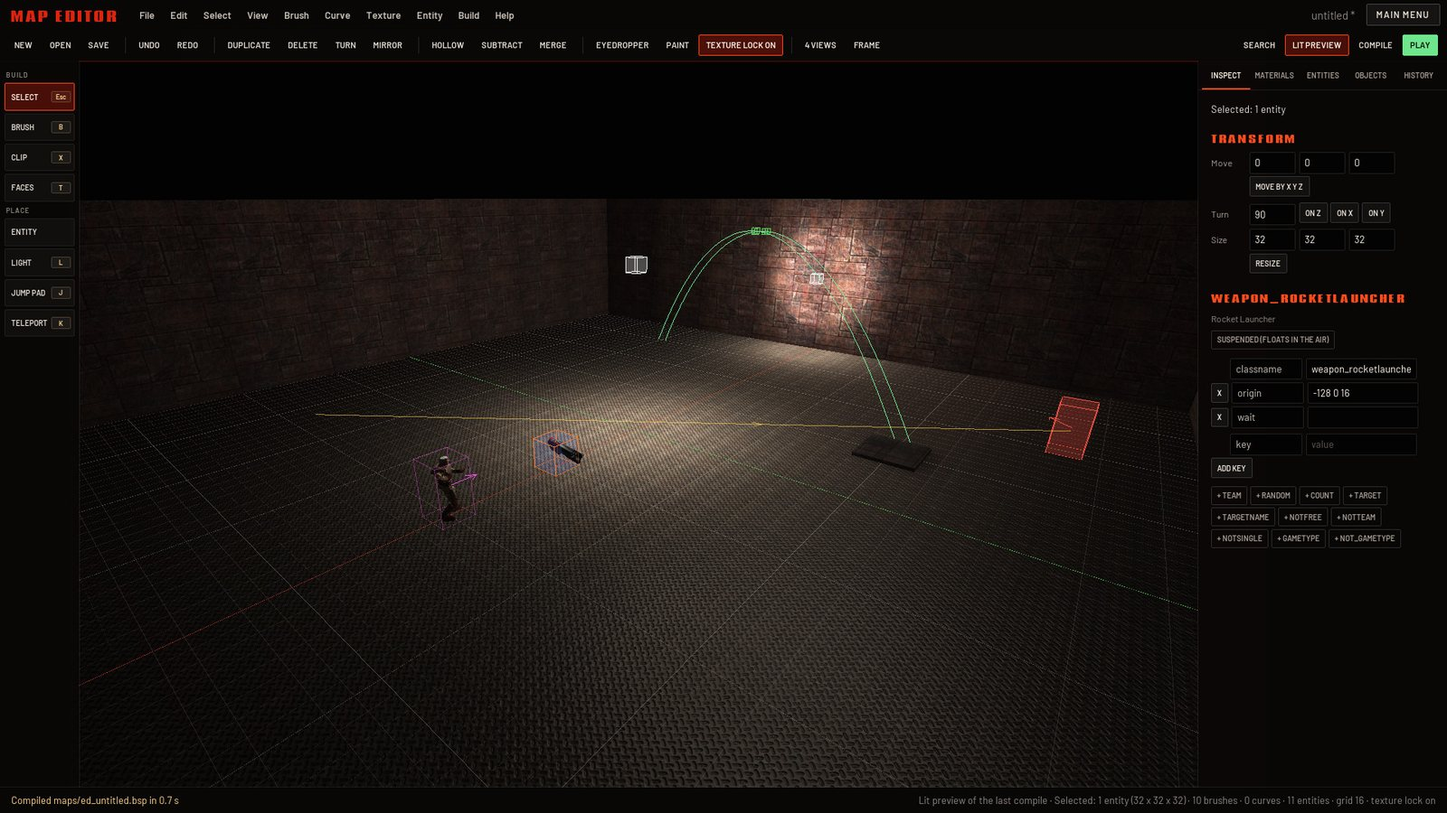
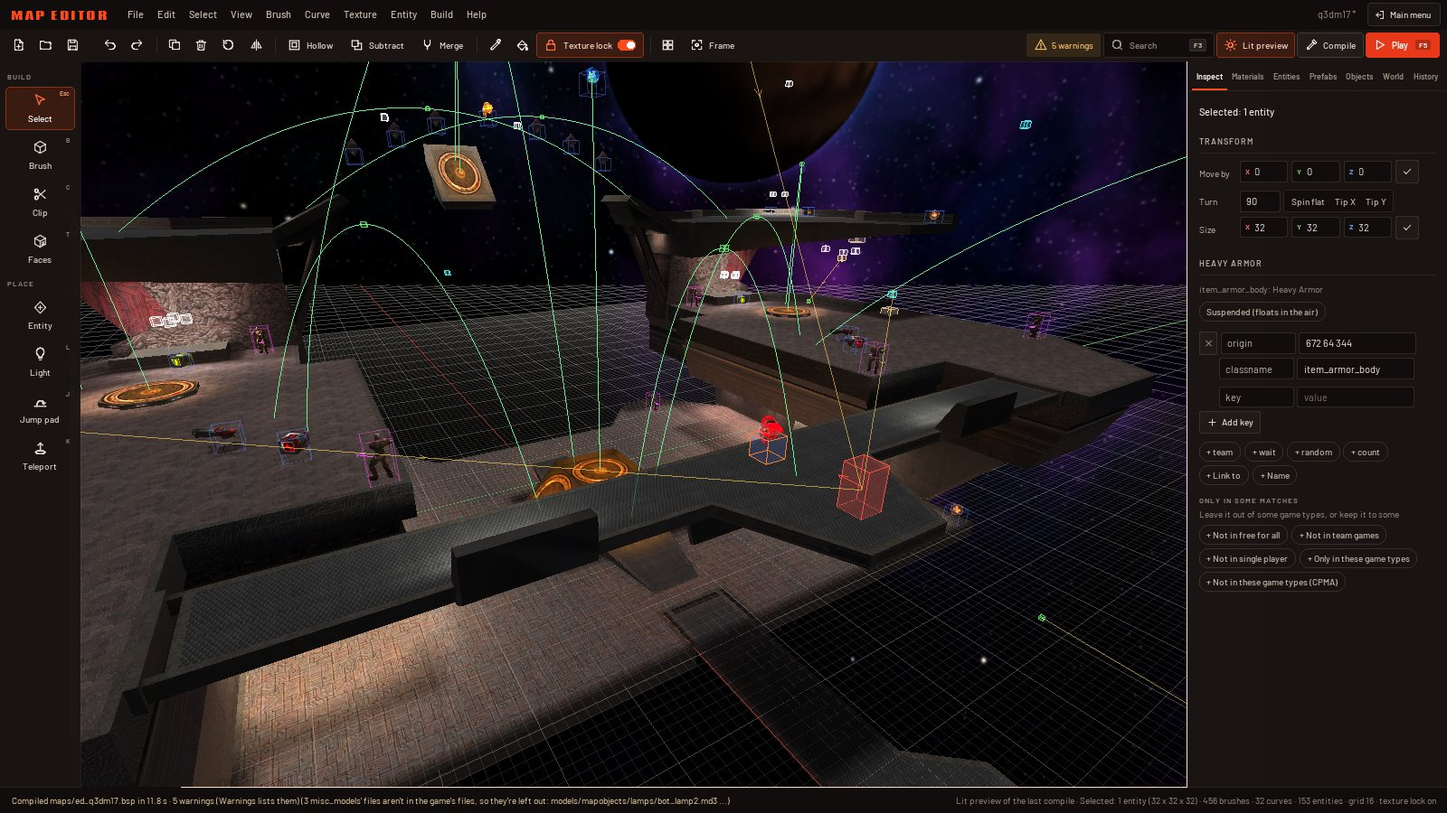
The map editor guide's screenshots in the editor's new look

diff --git a/map-editor.html b/map-editor.html
@@ -122,7 +122,12 @@
   <p class="kicker"><span class="rune">I</span> Open the editor</p>
   <h2 id="open-title">From the main menu, one click</h2>
   <p>Pick <b>Map Editor</b> in the main menu. The first time, it opens on a new map: a small lit room with a light and a spawn point, ready to play as it is. The editor draws with the Oz renderer, the one Oz picks by default; if you've switched to another one, the status line tells you to switch back under Settings, Video, Renderer.</p>
-  <p>A card comes up the first time too: <b>Getting started</b>, six steps to a map you can play (look around, build, shape, paint, fill it, play). <b>Got it</b> closes it, and <kbd>F1</kbd> or Help, Getting started brings it back whenever you want it.</p>
+  <p>A card comes up the first time too, with six steps to a map you can play (look around, build, shape, paint, fill it, play). <b>Got it</b> closes it, and <kbd>F1</kbd> or Help, Getting started brings it back whenever you want it.</p>
+
+  <figure class="shot framed">
+    <img src="img/editor_guide.jpg" alt="The map editor opening for the first time: a card with six numbered steps over a new room, the same steps listed again in the Inspect tab on the right" loading="lazy" width="1600" height="900">
+    <figcaption>The first time: the card over a new room. The same six steps stay in the Inspect tab while nothing is selected.</figcaption>
+  </figure>
 
   <figure class="diagram">
     <div class="plate">
@@ -138,41 +143,34 @@
           <text x="280" y="21">Brush</text><text x="318" y="21">Curve</text><text x="356" y="21">Texture</text><text x="404" y="21">Entity</text>
           <text x="446" y="21">Build</text><text x="482" y="21">Help</text>
         </g>
-        <text class="t-tiny t-faint" x="614" y="21">untitled *</text>
-        <rect class="ui-btn" x="668" y="7" width="84" height="20"/><text class="t-tiny t-ink mid" x="710" y="21">MAIN MENU</text>
-        <!-- action bar -->
+        <text class="t-tiny t-faint" x="618" y="21">untitled *</text>
+        <rect class="ui-btn" x="672" y="7" width="80" height="20" rx="3"/><path class="ui-ic" transform="translate(684 17)" d="M0-4H-4V4H0 M-1.5 0H4.5 M2.5-2L4.5 0L2.5 2"/><text class="t-tiny t-ink" x="694" y="21">Main menu</text>
+        <!-- action bar: icons for the commands used most, an icon and a word for the rest -->
         <rect class="ui-bar2" x="30" y="34" width="730" height="28"/>
-        <g class="t-tiny t-ink">
-          <text x="40" y="52">NEW</text><text x="62" y="52">OPEN</text><text x="89" y="52">SAVE</text>
-          <text x="123" y="52">UNDO</text><text x="150" y="52">REDO</text>
-          <text x="184" y="52">DUPLICATE</text><text x="235" y="52">DELETE</text><text x="271" y="52">TURN</text><text x="298" y="52">MIRROR</text>
-          <text x="341" y="52">HOLLOW</text><text x="377" y="52">SUBTRACT</text><text x="423" y="52">MERGE</text>
-          <text x="462" y="52">PAINT</text>
-          <text x="574" y="52">SEARCH</text><text x="610" y="52">LIT PREVIEW</text><text x="671" y="52">COMPILE</text>
-        </g>
-        <path class="ui-sep" d="M116 41V55M177 41V55M334 41V55M455 41V55"/>
-        <rect class="ui-btn on" x="494" y="40" width="66" height="16"/><text class="t-tiny t-ink mid" x="527" y="52">TEXTURE LOCK</text>
-        <rect class="ui-play" x="714" y="40" width="38" height="16"/><text class="t-tiny mid t-dark" x="733" y="52">PLAY</text>
-        <!-- tool strip -->
+        <path class="ui-ic" transform="translate(45 48)" d="M-3-4.5H1.5L3.5-2.5V4.5H-3Z"/><path class="ui-ic" transform="translate(63 48)" d="M-4.5-3.5H-1L0-2.5H4.5V3.5H-4.5Z"/><path class="ui-ic" transform="translate(81 48)" d="M-4-4H2.5L4-2.5V4H-4Z M-2-4V-1.5H2V-4"/><path class="ui-ic" transform="translate(107 48)" d="M3.5 3.5A4 4 0 0 0 -2.5 -2 M-4.5-4V-1H-1.5"/><path class="ui-ic" transform="translate(125 48)" d="M-3.5 3.5A4 4 0 0 1 2.5 -2 M4.5-4V-1H1.5"/><path class="ui-ic" transform="translate(151 48)" d="M-4.5-1.5H1.5V4.5H-4.5Z M-1.5-1.5V-4.5H4.5V1.5H1.5"/><path class="ui-ic" transform="translate(169 48)" d="M-3-2.5H3L2.4 4.5H-2.4Z M-4.5-2.5H4.5 M-1.2-4.5H1.2"/><path class="ui-ic" transform="translate(187 48)" d="M4 0A4 4 0 1 1 1.5 -3.7 M0.5-5.5L1.8-3.6L-0.2-2.4"/><path class="ui-ic" transform="translate(205 48)" d="M0-5V5 M-1.8-3.5L-4.5 3.5H-1.8Z M1.8-3.5L4.5 3.5H1.8Z"/>
+        <path class="ui-sep" d="M95 41V55M139 41V55M219 41V55M361 41V55M487 41V55"/>
+        <rect class="ui-btn" x="225" y="40" width="40" height="16" rx="3"/><path class="ui-ic" transform="translate(233 48)" d="M-4-4H4V4H-4Z M-1.8-1.8H1.8V1.8H-1.8Z"/><text class="t-tiny t-ink" x="240" y="51">Hollow</text>
+        <rect class="ui-btn" x="268" y="40" width="48" height="16" rx="3"/><path class="ui-ic" transform="translate(276 48)" d="M-4.5-4.5H1.5V1.5H-4.5Z M-1.5 1.5V4.5H4.5V-1.5H1.5"/><text class="t-tiny t-ink" x="283" y="51">Subtract</text>
+        <rect class="ui-btn" x="319" y="40" width="38" height="16" rx="3"/><path class="ui-ic" transform="translate(327 48)" d="M-3.5-4.5L0 0L3.5-4.5 M0 0V4.5"/><text class="t-tiny t-ink" x="334" y="51">Merge</text>
+        <path class="ui-ic" transform="translate(373 48)" d="M-4 4L1-1 M-0.5-2.5L2.5 0.5 M1-4L4-1"/><path class="ui-ic" transform="translate(391 48)" d="M-3.5-0.5L0-4L4 0L0.5 3.5Z M4 2V4"/>
+        <rect class="ui-btn on" x="403" y="40" width="80" height="16" rx="3"/><path class="ui-ic on" transform="translate(411 48)" d="M-3-0.5H3V4.5H-3Z M-2-0.5V-2.5A2 2 0 0 1 2 -2.5V-0.5"/><text class="t-tiny t-ink" x="418" y="51">Texture lock</text><rect class="ui-switch" x="465" y="44" width="13" height="8" rx="4"/><circle class="ui-knob" cx="474" cy="48" r="2.6"/>
+        <path class="ui-ic" transform="translate(499 48)" d="M-4.5-4.5H-0.8V-0.8H-4.5Z M0.8-4.5H4.5V-0.8H0.8Z M-4.5 0.8H-0.8V4.5H-4.5Z M0.8 0.8H4.5V4.5H0.8Z"/>
+        <rect class="ui-btn" x="511" y="40" width="39" height="16" rx="3"/><path class="ui-ic" transform="translate(519 48)" d="M-4.5-1.5V-4.5H-1.5 M1.5-4.5H4.5V-1.5 M4.5 1.5V4.5H1.5 M-1.5 4.5H-4.5V1.5"/><text class="t-tiny t-ink" x="526" y="51">Frame</text>
+        <rect class="ui-search" x="555" y="40" width="48" height="16" rx="3"/><path class="ui-ic" transform="translate(563 48)" d="M1.6-1A2.6 2.6 0 1 1 -3.6 -1A2.6 2.6 0 1 1 1.6 -1Z M0.8 1L4 4.2"/><text class="t-tiny t-faint" x="570" y="51">Search</text>
+        <rect class="ui-btn" x="607" y="40" width="58" height="16" rx="3"/><path class="ui-ic" transform="translate(615 48)" d="M2 0A2 2 0 1 1 -2 0A2 2 0 1 1 2 0Z M0-5V-3.6 M0 3.6V5 M-5 0H-3.6 M3.6 0H5 M-3.5-3.5L-2.5-2.5 M2.5 2.5L3.5 3.5 M-3.5 3.5L-2.5 2.5 M2.5-2.5L3.5-3.5"/><text class="t-tiny t-ink" x="622" y="51">Lit preview</text>
+        <rect class="ui-btn" x="669" y="40" width="45" height="16" rx="3"/><path class="ui-ic" transform="translate(677 48)" d="M-4 4.5L0.5 0 M-1.5-2L1.5-5L4.5-2L1.5 1Z"/><text class="t-tiny t-ink" x="684" y="51">Compile</text>
+        <rect class="ui-play" x="717" y="40" width="37" height="16" rx="3"/><path class="ui-ic light" transform="translate(724 48)" d="M-2.5-3.5L3.5 0L-2.5 3.5Z"/><text class="t-tiny t-onred" x="731" y="51">Play</text>
+        <!-- tool strip: a card for each tool, its icon, name and key -->
         <rect class="ui-strip" x="30" y="62" width="82" height="350"/>
-        <text class="t-tiny t-faint" x="38" y="78">BUILD</text>
-        <rect class="ui-tool on" x="36" y="84" width="70" height="22"/>
-        <rect class="ui-tool" x="36" y="111" width="70" height="22"/>
-        <rect class="ui-tool" x="36" y="138" width="70" height="22"/>
-        <rect class="ui-tool" x="36" y="165" width="70" height="22"/>
-        <text class="t-tiny t-faint" x="38" y="206">PLACE</text>
-        <rect class="ui-tool" x="36" y="212" width="70" height="22"/>
-        <rect class="ui-tool" x="36" y="239" width="70" height="22"/>
-        <rect class="ui-tool" x="36" y="266" width="70" height="22"/>
-        <rect class="ui-tool" x="36" y="293" width="70" height="22"/>
-        <g class="t-tiny t-ink">
-          <text x="42" y="99">SELECT</text><text x="42" y="126">BRUSH</text><text x="42" y="153">CLIP</text><text x="42" y="180">FACES</text>
-          <text x="42" y="227">ENTITY</text><text x="42" y="254">LIGHT</text><text x="42" y="281">JUMP PAD</text><text x="42" y="308">TELEPORT</text>
-        </g>
-        <g class="t-tiny t-amber end">
-          <text x="101" y="99">Esc</text><text x="101" y="126">B</text><text x="101" y="153">C</text><text x="101" y="180">T</text>
-          <text x="101" y="254">L</text><text x="101" y="281">J</text><text x="101" y="308">K</text>
-        </g>
+        <text class="t-micro t-quiet" x="38" y="76">BUILD</text><text class="t-micro t-quiet" x="38" y="231">PLACE</text>
+        <rect class="ui-tool on" x="36" y="81" width="70" height="31" rx="4"/><path class="ui-ic on" transform="translate(71 92)" d="M-3.5-5L3.5 1H-0.2L1.8 5 M-3.5-5V3L-0.6 0.6"/><text class="t-tiny t-hot mid" x="71" y="107">Select</text><text class="t-micro t-faint end" x="102" y="90">Esc</text>
+        <rect class="ui-tool" x="36" y="116" width="70" height="31" rx="4"/><path class="ui-ic" transform="translate(71 127)" d="M0-5L4.5-2.5V2.5L0 5L-4.5 2.5V-2.5Z M-4.5-2.5L0 0L4.5-2.5 M0 0V5"/><text class="t-tiny t-ink mid" x="71" y="142">Brush</text><text class="t-micro t-faint end" x="102" y="125">B</text>
+        <rect class="ui-tool" x="36" y="151" width="70" height="31" rx="4"/><path class="ui-ic" transform="translate(71 162)" d="M-4-5L2.5 2 M4-5L-2.5 2 M-1 3.6A1.4 1.4 0 1 1 -3.8 3.6A1.4 1.4 0 1 1 -1 3.6Z M5.2 3.6A1.4 1.4 0 1 1 2.4 3.6A1.4 1.4 0 1 1 5.2 3.6Z"/><text class="t-tiny t-ink mid" x="71" y="177">Clip</text><text class="t-micro t-faint end" x="102" y="160">C</text>
+        <rect class="ui-tool" x="36" y="186" width="70" height="31" rx="4"/><path class="ui-ic" transform="translate(71 197)" d="M0-5L4.5-2.5V2.5L0 5L-4.5 2.5V-2.5Z M-4.5-2.5L0 0L4.5-2.5 M0 0V5 M1.5 0.8L3.3-0.2V1.8L1.5 2.8Z"/><text class="t-tiny t-ink mid" x="71" y="212">Faces</text><text class="t-micro t-faint end" x="102" y="195">T</text>
+        <rect class="ui-tool" x="36" y="237" width="70" height="31" rx="4"/><path class="ui-ic" transform="translate(71 248)" d="M0-4.5L4.5 0L0 4.5L-4.5 0Z M1.3 0A1.3 1.3 0 1 1 -1.3 0A1.3 1.3 0 1 1 1.3 0Z"/><text class="t-tiny t-ink mid" x="71" y="263">Entity</text>
+        <rect class="ui-tool" x="36" y="272" width="70" height="31" rx="4"/><path class="ui-ic" transform="translate(71 283)" d="M0-5A3.2 3.2 0 0 1 3.2 -1.8C3.2 0 1.6 0.8 1.6 2.2H-1.6C-1.6 0.8 -3.2 0 -3.2 -1.8A3.2 3.2 0 0 1 0 -5Z M-1.4 4H1.4"/><text class="t-tiny t-ink mid" x="71" y="298">Light</text><text class="t-micro t-faint end" x="102" y="281">L</text>
+        <rect class="ui-tool" x="36" y="307" width="70" height="31" rx="4"/><path class="ui-ic" transform="translate(71 318)" d="M-5 3.5H5 M-3.5 3.5Q0-6 3.5 3.5"/><text class="t-tiny t-ink mid" x="71" y="333">Jump pad</text><text class="t-micro t-faint end" x="102" y="316">J</text>
+        <rect class="ui-tool" x="36" y="342" width="70" height="31" rx="4"/><path class="ui-ic" transform="translate(71 353)" d="M0-5V0.5 M-2.2-2.8L0-5L2.2-2.8 M-4.5 4H4.5 M-3 2H3"/><text class="t-tiny t-ink mid" x="71" y="368">Teleport</text><text class="t-micro t-faint end" x="102" y="351">K</text>
         <!-- the view -->
         <rect class="ui-view" x="112" y="62" width="388" height="350"/>
         <g clip-path="url(#clip-view)">
@@ -188,29 +186,27 @@
         <g class="spawn-glyph" transform="translate(178 300)"><circle cx="0" cy="-30" r="6"/><path d="M0-24V2M0 2L-8 22M0 2L8 22M-11-14H11"/></g>
         <g transform="translate(432 168)"><circle class="lamp-glow" r="22"/><rect class="lamp" x="-6" y="-6" width="12" height="12"/></g>
         <text class="t-tiny t-faint" x="122" y="80">3D VIEW</text>
-        <!-- the panel -->
+        <!-- the panel: seven tabs in a row -->
         <rect class="ui-panel" x="500" y="62" width="260" height="350"/>
+        <g class="t-micro"><text class="t-hot" x="508" y="82">Inspect</text><text x="541" y="82">Materials</text><text x="581" y="82">Entities</text><text x="616" y="82">Prefabs</text><text x="649" y="82">Objects</text><text x="683" y="82">World</text><text x="709" y="82">History</text></g>
+        <path class="ui-tab-on" d="M508 88H534"/>
+        <path class="ui-sep" d="M506 94H754"/>
+        <text class="t-small t-ink" x="512" y="114">Nothing is selected</text>
+        <text class="t-micro t-quiet" x="512" y="136">GETTING STARTED</text><path class="ui-sep" d="M512 141H750"/>
         <g class="t-tiny">
-          <text class="t-hot" x="510" y="84">INSPECT</text><text x="560" y="84">MATERIALS</text><text x="620" y="84">ENTITIES</text><text x="674" y="84">PREFABS</text>
-          <text x="510" y="106">OBJECTS</text><text x="558" y="106">WORLD</text><text x="598" y="106">HISTORY</text>
+          <text x="512" y="157"><tspan class="t-glow">1</tspan>  Hold the right button to look</text>
+          <text x="512" y="173"><tspan class="t-glow">2</tspan>  Brush: drag a footprint, then up</text>
+          <text x="512" y="189"><tspan class="t-glow">3</tspan>  Click to select, drag to move</text>
+          <text x="512" y="205"><tspan class="t-glow">4</tspan>  Materials tab: click to paint</text>
+          <text x="512" y="221"><tspan class="t-glow">5</tspan>  Entities tab: pick, then click</text>
+          <text x="512" y="237"><tspan class="t-glow">6</tspan>  Play F5 runs around in it</text>
         </g>
-        <path class="ui-tab-on" d="M510 89H550"/>
-        <path class="ui-sep" d="M506 114H754"/>
-        <text class="t-small t-ink" x="512" y="134">Nothing is selected</text>
-        <text class="t-tiny t-red" x="512" y="158">GETTING STARTED</text>
-        <g class="t-tiny">
-          <text x="512" y="178"><tspan class="t-glow">1</tspan>  Hold the right button to look</text>
-          <text x="512" y="194"><tspan class="t-glow">2</tspan>  Brush: drag a footprint, then up</text>
-          <text x="512" y="210"><tspan class="t-glow">3</tspan>  Click to select, drag to move</text>
-          <text x="512" y="226"><tspan class="t-glow">4</tspan>  Materials tab: click to paint</text>
-          <text x="512" y="242"><tspan class="t-glow">5</tspan>  Entities tab: pick, then click</text>
-          <text x="512" y="258"><tspan class="t-glow">6</tspan>  Play F5 runs around in it</text>
-        </g>
-        <text class="t-tiny t-red" x="512" y="288">MAP KEYS</text>
-        <rect class="ui-field" x="512" y="298" width="96" height="18"/><rect class="ui-field" x="614" y="298" width="136" height="18"/>
-        <rect class="ui-field" x="512" y="322" width="96" height="18"/><rect class="ui-field" x="614" y="322" width="136" height="18"/>
-        <rect class="ui-field" x="512" y="346" width="96" height="18"/><rect class="ui-field" x="614" y="346" width="136" height="18"/>
-        <g class="t-tiny"><text x="518" y="311">message</text><text x="518" y="335">music</text><text x="518" y="359">gravity</text></g>
+        <text class="t-micro t-quiet" x="512" y="266">MAP KEYS</text><path class="ui-sep" d="M512 271H750"/>
+        <rect class="ui-field" x="512" y="280" width="96" height="18" rx="2"/><rect class="ui-field" x="614" y="280" width="136" height="18" rx="2"/>
+        <rect class="ui-field" x="512" y="304" width="96" height="18" rx="2"/><rect class="ui-field" x="614" y="304" width="136" height="18" rx="2"/>
+        <rect class="ui-field" x="512" y="328" width="96" height="18" rx="2"/><rect class="ui-field" x="614" y="328" width="136" height="18" rx="2"/>
+        <g class="t-tiny"><text x="518" y="293">message</text><text x="518" y="317">music</text><text x="518" y="341">gravity</text></g>
+        <rect class="ui-chip on" x="512" y="352" width="56" height="16" rx="8"/><text class="t-tiny t-ink mid" x="540" y="363">Sky and sun</text>
         <!-- status line -->
         <rect class="ui-bar" x="30" y="412" width="730" height="28"/>
         <text class="t-tiny t-amber" x="40" y="430">Click to select, drag to move · Shift+drag a face pushes it</text>
@@ -219,9 +215,9 @@
         <g class="callout">
           <g transform="translate(15 17)"><circle r="10"/><text class="mid" y="4">1</text></g>
           <g transform="translate(15 48)"><circle r="10"/><text class="mid" y="4">2</text></g>
-          <g transform="translate(71 390)"><circle r="10"/><text class="mid" y="4">3</text></g>
-          <g transform="translate(140 390)"><circle r="10"/><text class="mid" y="4">4</text></g>
-          <g transform="translate(528 390)"><circle r="10"/><text class="mid" y="4">5</text></g>
+          <g transform="translate(71 394)"><circle r="10"/><text class="mid" y="4">3</text></g>
+          <g transform="translate(140 394)"><circle r="10"/><text class="mid" y="4">4</text></g>
+          <g transform="translate(528 394)"><circle r="10"/><text class="mid" y="4">5</text></g>
           <g transform="translate(15 426)"><circle r="10"/><text class="mid" y="4">6</text></g>
         </g>
       </svg>
@@ -229,9 +225,9 @@
     <figcaption>
       <b>The screen</b>
       <ol class="me-legend">
-        <li><b>The menu bar.</b> File, Edit, Select, View, Brush, Curve, Texture, Entity, Build and Help hold every action, each row with its keys. A mark shows what's on; a row is grayed out when there's nothing for it to work on. Main Menu is at the right end.</li>
-        <li><b>The action bar.</b> The actions you reach for most, with Play in green at the right. In a narrow window, New, Open, 4 Views, Frame and Search give up their place (they're still in the menus).</li>
-        <li><b>The tool strip.</b> Eight tools, each with its key, the one in use lit.</li>
+        <li><b>The menu bar.</b> File, Edit, Select, View, Brush, Curve, Texture, Entity, Build and Help hold every action, each row with its keys. A mark shows what's on; a row is grayed out when there's nothing for it to work on. Main menu is at the right end.</li>
+        <li><b>The action bar.</b> The actions you reach for most. The commonest are icons (point at one for its name and key), the rest an icon and a word; Play is the red button at the right. In a narrow window, New, Open, Four views, Frame and Search give up their place (they're still in the menus).</li>
+        <li><b>The tool strip.</b> Eight tools, each a card with its icon, name and key, the one in use outlined in red.</li>
         <li><b>The view.</b> One 3D view, or four views with <kbd>V</kbd>.</li>
         <li><b>The panel.</b> Seven tabs: Inspect, Materials, Entities, Prefabs, Objects, World and History.</li>
         <li><b>The status line.</b> What the pointer is over and what a tool wants next on the left; the map's counts, the grid and the texture lock on the right. Notes like "Undo Jump higher" show here for a while too.</li>
@@ -244,7 +240,7 @@
   <p>With nothing selected, the Inspect tab shows the getting started steps, the map's own settings and a short list of keys, so the panel is never empty.</p>
 
   <h3>Leaving and coming back</h3>
-  <p><b>Main Menu</b> at the right of the menu bar (or File, Exit to main menu) takes you back to the main menu. Nothing is lost: the map stays in the editor exactly as it was until you open it again, saved or not.</p>
+  <p><b>Main menu</b> at the right of the menu bar (or File, Exit to main menu) takes you back to the main menu. Nothing is lost: the map stays in the editor exactly as it was until you open it again, saved or not.</p>
   <p><kbd>Esc</kbd> never leaves the editor. It cancels whatever a tool is in the middle of, and then clears the selection. To work the menus from the keyboard, press <kbd>F10</kbd>: the arrows move through them and Enter picks a row.</p>
   <div class="know">
     <p>The editor also opens from the console: type <code>editor</code>.</p>
@@ -281,11 +277,11 @@
 <section id="views" aria-labelledby="views-title">
   <p class="kicker"><span class="rune">III</span> Views and the grid</p>
   <h2 id="views-title">One view or four, and everything on the grid</h2>
-  <p>Press <kbd>V</kbd> (or 4 Views in the action bar) to split the view into four panes, as classic map editors do: the 3D view, <b>top</b> (X across, Y up), <b>front</b> (X across, Z up) and <b>side</b> (Y across, Z up). Press <kbd>V</kbd> again and the pane under the pointer fills the view alone. <kbd>Ctrl+Tab</kbd> steps that single view through 3D, top, front and side.</p>
+  <p>Press <kbd>V</kbd> (or the four-squares icon in the action bar) to split the view into four panes, as classic map editors do: the 3D view, <b>top</b> (X across, Y up), <b>front</b> (X across, Z up) and <b>side</b> (Y across, Z up). Press <kbd>V</kbd> again and the pane under the pointer fills the view alone. <kbd>Ctrl+Tab</kbd> steps that single view through 3D, top, front and side.</p>
 
   <figure class="shot framed">
     <img src="img/editor_views.jpg" alt="The editor in four views on The Longest Yard: the 3D view at top left, the top, front and side views as line drawings, and the Inspect tab showing the map's own keys" loading="lazy" width="1600" height="900">
-    <figcaption>Four views on a stock arena opened in the editor. With nothing selected, Inspect shows the getting started steps and the map's keys. (Screenshots on this page are from an earlier build: the panel has since gained the Prefabs and World tabs.)</figcaption>
+    <figcaption>Four views on a stock arena opened in the editor. With nothing selected, Inspect shows the getting started steps and the map's own keys.</figcaption>
   </figure>
 
   <p>The 2D views are flat line drawings: brushes of the world in gray, brushes of an entity (a door, a trigger) in blue, the selection in orange, with entities, links and handles drawn as in 3D. Each one keeps its own place and zoom; Frame (<kbd>F</kbd>) and Frame the map (<kbd>Home</kbd>) set all four at once. In a 2D view, drag with the right or middle button to slide it, and turn the wheel to zoom toward the pointer.</p>
@@ -352,7 +348,7 @@
     <li><kbd>Ctrl</kbd>+drag the selection to drag off a copy and leave the original in place.</li>
     <li>The <b>arrow keys</b> nudge the selection a grid step as the camera sees it: <kbd>Up</kbd> moves it away from you, <kbd>Down</kbd> toward you. <kbd>PgUp</kbd> and <kbd>PgDn</kbd> move it up and down.</li>
     <li><b>Duplicate</b> (<kbd>Ctrl+D</kbd> or <kbd>Space</kbd>) puts a copy beside the selection, to its right as the camera sees it. <b>Copy</b>, <b>Cut</b> and <b>Paste</b> are <kbd>Ctrl+C</kbd>, <kbd>Ctrl+X</kbd> and <kbd>Ctrl+V</kbd>; Paste puts it where the pointer is, on the grid. <kbd>Del</kbd> or <kbd>Backspace</kbd> deletes.</li>
-    <li><b>By numbers:</b> the Transform rows of the Inspect tab move the selection by X, Y and Z, turn it by any number of degrees (Spin flat turns it on the floor, Tip X and Tip Y tip it over the red and green grid lines), and resize it to a width, depth and height, standing on its floor.</li>
+    <li><b>By numbers:</b> the Transform rows of the Inspect tab move the selection by X, Y and Z (the fields lettered in the grid's colors; press <kbd>Enter</kbd> or the check beside them), turn it by any number of degrees (Spin flat turns it on the floor, Tip X and Tip Y tip it over the red and green grid lines), and resize it to a width, depth and height, standing on its floor.</li>
   </ul>
 
   <h3>The handles</h3>
@@ -495,6 +491,11 @@
   </ul>
   <p>The search box narrows any of them as you type ("concrete", "gothic", "sky"). Tool materials, like the invisible clip and trigger ones, show in their own colors in the view, as other editors draw them.</p>
 
+  <figure class="shot framed">
+    <img src="img/editor_materials.jpg" alt="A room blocked out in plain colored grid textures, a selected block painted teal, and the Materials tab showing the current material and the twelve dev textures" loading="lazy" width="1600" height="900">
+    <figcaption>A blockout in the dev textures. The selected block is teal, which is now the current material at the top of the tab.</figcaption>
+  </figure>
+
   <h3>Eyedropper and Paint</h3>
   <ul>
     <li><b>Eyedropper</b> (<kbd>I</kbd>): the material of the face under the pointer becomes the current one.</li>
@@ -511,14 +512,19 @@
   </ul>
 
   <h3>Texture rows in the Inspect tab</h3>
-  <p>For the picked faces (or the selected brushes), Inspect shows the material, a <b>Color</b> row that tints the texture (in the view and in the game), and the <b>Texture</b> numbers: shift, scale and turn, typed in directly, blank where the faces differ. Under them:</p>
+  <p>For the picked faces (or the selected brushes), Inspect shows the material with <b>Paint selection</b> and <b>Browse</b>, a <b>Color</b> row that tints the texture in the view and in the game (one row of strong colors; <b>More</b> adds paler ones and grays), and the <b>Texture</b> numbers: shift, scale and turn, typed in directly (U across, V down), "mixed" where the faces differ. Beside and under them:</p>
   <ul>
-    <li><b>Left 15</b>, <b>Right 15</b>, <b>×2</b> and <b>/2</b>.</li>
+    <li><b>×2</b> and <b>÷2</b> for the scale, <b>Left 15°</b> and <b>Right 15°</b> for the turn.</li>
     <li><b>Fit</b>: the texture so many times across and down each face.</li>
-    <li><b>Left</b>, <b>Right</b>, <b>Top</b>, <b>Bottom</b>, <b>Center</b>: line an edge (or the middle) of each face up with the texture.</li>
-    <li><b>Flip across</b>, <b>Flip down</b> and <b>Reset</b> (the default mapping at half scale).</li>
+    <li><b>Align</b>: five icons that line an edge of each face (left, right, top, bottom) or its middle up with the texture, then two that flip it across and down. Point at one for its name.</li>
+    <li><b>Reset</b>: the default mapping at half scale.</li>
     <li><b>UV editor</b> (<kbd>U</kbd>): the face's outline over its texture's tiles. Drag the texture to slide it, turn the wheel to zoom, use the same buttons under it, and Frame puts the face back in the middle. <kbd>U</kbd> or <kbd>Esc</kbd> closes it.</li>
   </ul>
+
+  <figure class="shot framed">
+    <img src="img/editor_faces.jpg" alt="The Faces tool with one wall's face picked and tinted blue, and the Inspect tab showing its material, the color row and the texture numbers with align buttons" loading="lazy" width="1600" height="900">
+    <figcaption>One face picked with the Faces tool (<kbd>T</kbd>): its material, color and texture numbers in the Inspect tab.</figcaption>
+  </figure>
 </section>
 
 <!-- ============================================================ VIII -->
@@ -528,8 +534,8 @@
   <p><b>Entities</b> are everything in a map that isn't plain wall: weapons and armor, spawn points, lights, jump pads, teleporters, doors, triggers. The <b>Entities tab</b> lists them all in plain words.</p>
 
   <figure class="shot framed">
-    <img src="img/editor_entities.jpg" alt="A room with a jump pad's arc, a spawn point standing as a fighter, a rocket launcher, trigger boxes, and the Entities tab listing armor, health and weapons as icons" loading="lazy" width="1600" height="900">
-    <figcaption>The Entities tab beside a test room: pickups by their icons, a jump pad's arc drawn where players will fly, a spawn point standing as a fighter.</figcaption>
+    <img src="img/editor_entities.jpg" alt="A room with a jump pad's arc, a teleporter's link, a spawn point standing as a fighter, a rocket launcher and armor, and the Entities tab with a card for the player spawn, the quick builds and the spawn tiles" loading="lazy" width="1600" height="900">
+    <figcaption>The Entities tab beside a test room. The card on top says what's about to be placed (a player spawn) and what to click next, with the quick builds under it. In the view: a jump pad's arc, a teleporter's link, a spawn point standing as a fighter.</figcaption>
   </figure>
 
   <h3>The Entities tab</h3>
@@ -584,11 +590,17 @@
   </figure>
   <p>After the second click the Select tool is back with the new pad selected. Drag its landing ring to move where it lands; the throw re-aims as you drag, all in one undo step. <b>Land here</b> in the Inspect tab (or the Entity menu) lets you click a new landing spot, and <b>Higher</b> and <b>Lower</b> raise or drop the arc by 32 units while it still lands in the same place.</p>
 
+  <figure class="shot framed">
+    <img src="img/editor_jumppad.jpg" alt="A selected jump pad in a test room, its arc and landing ring drawn, and the Inspect tab reading out the throw: 696 a second, 202 up, 581 across, 1.5 s in the air, with Land here, Higher and Lower" loading="lazy" width="1600" height="900">
+    <figcaption>A pad just made: the ring at the landing drags, and Inspect reads out the throw.</figcaption>
+  </figure>
+
   <h3>The other quick builds</h3>
   <ul>
     <li><b>Teleporter</b> (<kbd>K</kbd>): click the entrance, then the exit. You get the teleport trigger and its destination, linked.</li>
     <li><b>Light</b> (<kbd>L</kbd>): click a surface and a light goes one grid step off it. Its color, brightness and reach are in the Inspect tab (<a href="#inspector">below</a>).</li>
-    <li><b>Door</b>: select brushes, press Door. They become a sliding door that opens when a player comes near or when it's shot. Inspect sets which way it slides and what opens it.</li>
+    <li><b>Door</b>: select brushes, press Door. They become a sliding door that opens when a player comes near or when it's shot. Inspect sets which way it slides, what opens it and how fast.</li>
+    <li><b>Trigger area</b> (for a selected door): the area players walk into to open it, made for you as a box around the doorway and selected so you can resize it. Select a brush you drew along with the door and that brush becomes the area instead. It blocks no one and doesn't show in the game.</li>
     <li><b>Double door</b>: the selected brush is cut in two, a pair of doors sliding apart and opening together.</li>
     <li><b>Lift</b>: build it where its top should be. It starts lowered and rises when someone steps on it; Inspect sets how far it travels.</li>
   </ul>
@@ -621,8 +633,12 @@
   <ul>
     <li>A selected <b>jump pad</b> reads out its throw: launch speed, how high over the pad, how far across, and its time in the air, with Land here, Higher and Lower. If something's wrong with it, the readout says what in red.</li>
     <li>A selected <b>light</b> has its color and two sliders: <b>Intensity</b> (300 by default) and <b>Range</b>. All the way left, Range is Auto and the light fades as real light does; anywhere else, the light fades evenly to nothing at that distance. <b>Make spotlight</b> aims it: an aim point goes on the floor below, which you drag to point it, and a <b>Cone</b> slider sets how wide it shines. <b>Back to a point light</b> undoes it.</li>
-    <li>A selected <b>door</b> has switches for what opens it (a player comes near, it's shot), arrows for the way it slides, and how many buttons or triggers open it.</li>
+    <li>A selected <b>door</b> has switches for what opens it (a player comes near, or walks into its trigger area; it's shot), arrows for the way it slides, and how many buttons or triggers open it. <b>Speed</b> is in units a second (the game's default is 400): <b>Slower</b> and <b>Faster</b> step it by 50, <b>Slow</b>, <b>Normal</b> and <b>Fast</b> set 100, 400 and 800, and beside them is how long it takes to open. <b>Add trigger area</b> gives it an area to walk into, and once it has one, <b>Select trigger area</b> picks it to move or resize.</li>
   </ul>
+  <figure class="shot framed">
+    <img src="img/editor_door.jpg" alt="A door in a doorway with its orange trigger area in front and an outline where it slides to, and the Inspect tab's door rows: what opens it, its speed with Slower, Faster, Slow, Normal and Fast, and Select trigger area" loading="lazy" width="1600" height="900">
+    <figcaption>A door with its trigger area (the orange box players walk into) and the outline of where it slides to. Inspect has what opens it and its speed: at 400 it opens in 0.28 s.</figcaption>
+  </figure>
 </section>
 
 <!-- ============================================================ X -->
@@ -661,7 +677,11 @@
   <h3>Groups</h3>
   <p><b>Group</b> (<kbd>Ctrl+G</kbd>) ties the selected brushes and curves together: a click selects the whole group and a double-click one brush in it. <b>Ungroup</b> (<kbd>Ctrl+Shift+G</kbd>) takes it apart. Groups are only for editing; in the game they're plain world.</p>
   <h3>Prefabs</h3>
-  <p>A <b>prefab</b> is a piece you've built and want again, in this map or any other: a staircase, a doorway, a lamp with its light. Select it, type a name in the <b>Prefabs</b> tab and press <b>Save selection</b>. The tab shows every prefab you've saved as a 3D thumbnail; click one to put it where the pointer is, as Paste does. Delete takes two clicks, so it can't happen by accident.</p>
+  <p>A <b>prefab</b> is a piece you've built and want again, in this map or any other: a staircase, a doorway, a lamp with its light. Select it, type a name in the <b>Prefabs</b> tab and press <b>Save selection</b>. The tab shows every prefab you've saved as a 3D thumbnail; click one to put it where you're looking: on the floor in the middle of the view, or against the wall there. Delete takes two clicks, so it can't happen by accident.</p>
+  <figure class="shot framed">
+    <img src="img/editor_prefabs.jpg" alt="The Prefabs tab with a name field, Save selection, and two saved prefabs shown as 3D thumbnails: a crate and a doorway with its door" loading="lazy" width="1600" height="900">
+    <figcaption>Two prefabs saved from this room, the doorway with its door and trigger area, and a crate.</figcaption>
+  </figure>
   <h3>The Objects tab</h3>
   <p>Everything in the map, listed: the world and every entity in the file's order, with their brushes under them. Type in the filter to find a class, a name or a material. Click a row to select it (<kbd>Shift</kbd> adds, <kbd>Ctrl</kbd> toggles), double-click to frame it. Hidden and locked rows are marked, and the tab has the hide, lock and group buttons too.</p>
 </section>
@@ -679,6 +699,10 @@
     <li><b>Sun brightness</b> (100 is about as bright as the stock outdoor maps), <b>Sun height</b> (degrees over the horizon: 90 is straight down, low makes long shadows), <b>Sun direction</b> (degrees: 0 from the east, the +X side, 90 from +Y), <b>Sky light</b> (how much the sky itself glows onto the map) and <b>Ambient light</b> (a little light everywhere; 5 to 20 is subtle).</li>
     <li><b>Defaults</b> puts all of it back.</li>
   </ul>
+  <figure class="shot framed">
+    <img src="img/editor_world.jpg" alt="A room with its ceiling taken away, gray clouds overhead in the view, an arrow showing which way the sun shines, and the World tab's light settings" loading="lazy" width="1600" height="900">
+    <figcaption>The World tab on a new map, its ceiling taken away. The sky shows in the view as you change it, and an arrow shows where the sun shines from.</figcaption>
+  </figure>
   <div class="know">
     <p>You don't need to seal your map against the void. Every compile closes it in a box of sky by itself, out past the map's edges and above it, with a deadly floor under it so anyone who falls off an edge dies at once. The box is only in the compiled copy, never in your file.</p>
   </div>
@@ -725,6 +749,10 @@
     <li><b>Lit preview</b> (<kbd>F6</kbd>): the editor's view shows the map lit by its own lights, from the last compile. Changes you make meanwhile are drawn over it; <kbd>F6</kbd> again goes back to the plain view.</li>
   </ul>
   <figure class="shot framed">
+    <img src="img/editor.jpg" alt="The Longest Yard open in the map editor in Lit preview, lit as in the game against its starry sky, jump pad arcs drawn over it, the heavy armor selected and its keys in the Inspect tab" loading="lazy" width="1600" height="900">
+    <figcaption>A stock arena opened in the editor, compiled in 12 seconds and seen in Lit preview, with its heavy armor selected. The compile's warnings wait behind the button in the action bar.</figcaption>
+  </figure>
+  <figure class="shot framed">
     <img src="img/editor_play.jpg" alt="Running around a compiled test room with the game's HUD, a rocket launcher on the floor and a pool of light on the far wall" loading="lazy" width="1600" height="900">
     <figcaption>A test room after F5: the full game, HUD and all. Escape, then Back to the map editor.</figcaption>
   </figure>
@@ -732,7 +760,7 @@
   <p>In the game, press <kbd>Esc</kbd>: the pause menu has <b>Back to the map editor</b> while you're in a play-test. The editor comes back with the map, the selection and the camera exactly as you left them.</p>
   <h3>When something's wrong</h3>
   <ul>
-    <li>After a compile with warnings, the status line counts them and a <b>Warnings</b> button shows in the action bar. Pick a warning and the editor selects and frames what it's about: a brush painted with a material the game doesn't have, say.</li>
+    <li>After a compile with warnings, the status line counts them and a <b>Warnings</b> button shows in the action bar. Pick a warning and the editor selects and frames what it's about: a brush painted with a material the game doesn't have, say. A warning that gives only a spot in the map selects the brush there, or frames the spot when there's none.</li>
     <li><b>Check the map</b> (Build menu) looks for what would go wrong in the game: brushes without collision, jump pads that do nothing, targets that name nothing. What it finds goes in the same list.</li>
     <li>If a compile ever finds a leak (a hole from the inside of the map out to the void), it stops and draws a red line from an entity out through the gap; <b>Show the leak</b> turns the camera onto it.</li>
   </ul>
@@ -987,7 +1015,7 @@
     </ul></div>
   </div>
   <div class="foot-rule"></div>
-  <p class="credits">The guide describes the editor as of Ozmium Arena 0.7.23-beta. The diagrams are drawn for this page; the compiler is <a href="https://github.com/Garux/netradiant-custom">NetRadiant-custom</a>'s q3map2.</p>
+  <p class="credits">The guide describes the editor as of Ozmium Arena 0.7.26-beta. The diagrams are drawn for this page; the compiler is <a href="https://github.com/Garux/netradiant-custom">NetRadiant-custom</a>'s q3map2.</p>
   <p class="legal">Ozmium Arena is an unofficial, non-commercial fan project, not affiliated with, endorsed by or sponsored by id Software, Bethesda or ZeniMax. Quake and Quake III Arena are trademarks of ZeniMax Media, named here only to identify the game Ozmium Arena modifies and requires. The code is GPL-2.0; the remastered assets remain id Software's property.</p>
   <a class="to-top" href="#top">Back to the top</a>
 </footer>

diff --git a/me.css b/me.css
@@ -239,21 +239,34 @@
 .dg .mid, .dg .mid text { text-anchor: middle; }
 .dg .end, .dg .end text { text-anchor: end; }
 
-/* the screen */
-.dg .ui-bg { fill: #070605; }
-.dg .ui-bar { fill: #0d0a09; stroke: #241c18; }
-.dg .ui-bar2 { fill: #0a0807; stroke: #241c18; }
-.dg .ui-strip { fill: #0a0807; stroke: #241c18; }
-.dg .ui-view { fill: #0c0908; stroke: #3a1a10; }
-.dg .ui-panel { fill: #0d0a09; stroke: #241c18; }
-.dg .ui-sep { stroke: #2a211d; stroke-width: 1; fill: none; }
-.dg .ui-btn { fill: #120e0c; stroke: #4a3a30; }
-.dg .ui-btn.on { fill: #3a1209; stroke: var(--red); }
-.dg .ui-play { fill: #6fe08a; stroke: #2a6e3a; }
-.dg .ui-tool { fill: #120e0c; stroke: #2e241e; }
-.dg .ui-tool.on { fill: #3a1209; stroke: var(--red); }
+/* the screen (the editor's look since 0.7.24: warm charcoal layers, red only for what's on and Play) */
+.dg .ui-bg { fill: #0e0b0a; }
+.dg .ui-bar { fill: #110d0c; stroke: #241d1a; }
+.dg .ui-bar2 { fill: #1a1513; stroke: #241d1a; }
+.dg .ui-strip { fill: #1a1513; stroke: #241d1a; }
+.dg .ui-view { fill: #0c0908; stroke: #2a221e; }
+.dg .ui-panel { fill: #1a1513; stroke: #241d1a; }
+.dg .ui-sep { stroke: #2e2622; stroke-width: 1; fill: none; }
+.dg .ui-btn { fill: #221c19; stroke: #2e2622; }
+.dg .ui-btn.on { fill: #3b1c13; stroke: var(--glow); }
+.dg .ui-ibtn { fill: #1a1513; stroke: none; }
+.dg .ui-ibtn.on { fill: #3b1c13; stroke: var(--glow); }
+.dg .ui-search { fill: #100d0c; stroke: #2e2622; }
+.dg .ui-play { fill: #e8381a; stroke: #ff5a36; }
+.dg .ui-tool { fill: #1a1513; stroke: #262019; }
+.dg .ui-tool.on { fill: #391b12; stroke: var(--glow); }
 .dg .ui-tab-on { stroke: var(--glow); stroke-width: 2; }
-.dg .ui-field { fill: #070605; stroke: #2a211d; }
+.dg .ui-field { fill: #100d0c; stroke: #2a221e; }
+.dg .ui-chip { fill: #221c19; stroke: #2e2622; }
+.dg .ui-chip.on { fill: #3b1c13; stroke: var(--glow); }
+.dg .ui-switch { fill: var(--glow); }
+.dg .ui-knob { fill: #fff3e6; }
+.dg .ui-ic { fill: none; stroke: #c4b8ae; stroke-width: 1; stroke-linecap: round; stroke-linejoin: round; }
+.dg .ui-ic.on { stroke: var(--glow); }
+.dg .ui-ic.light { stroke: #fff3e6; }
+.dg .t-micro, .dg .t-micro text { font-size: 7.5px; font-weight: 600; letter-spacing: .05em; }
+.dg .t-quiet, .dg .t-quiet text { fill: #b3a79d; letter-spacing: .16em; }
+.dg .t-onred, .dg .t-onred text { fill: #fff3e6; }
 .dg .ui-grid { stroke: #2a211d; stroke-width: 1; fill: none; }
 .dg .ui-axis-x { stroke: #b3170a88; stroke-width: 1.2; fill: none; }
 .dg .ui-axis-y { stroke: #3a9a4a88; stroke-width: 1.2; fill: none; }
